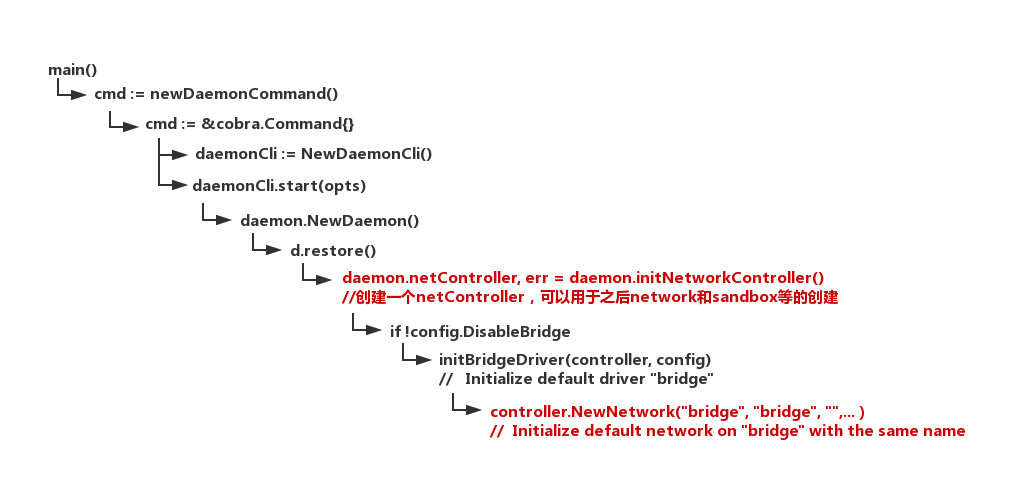
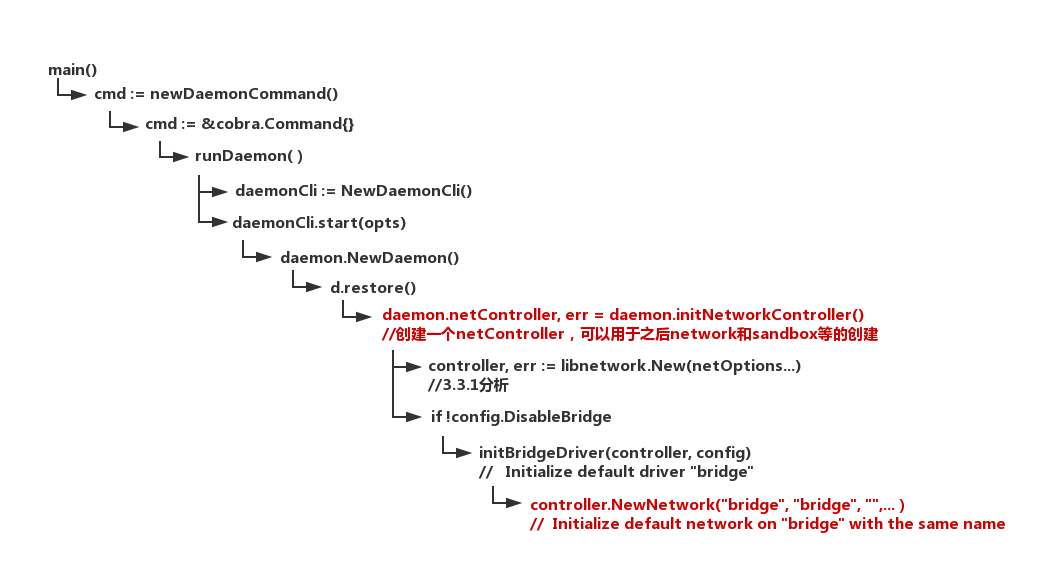
第六篇 10.19 晚 第一次

Changed region(s): [[0.1833, 0.4339, 0.9468, 0.9298], [0.0305, 0.093, 0.3665, 0.2789], [0.1527, 0.3099, 0.4581, 0.4029]]

diff --git a/_posts/2017-10-13-study-6-docker-6-libnetwork-excuting-flow.md b/_posts/2017-10-13-study-6-docker-6-libnetwork-excuting-flow.md
@@ -48,6 +48,131 @@ tags:
 
 ![](/img/study/study-6-docker-6-libnetwork-excuting-flow/libnetwork-excute-flow-daemon-init.png)
 
+### 2.3 代码分析
+
+这部分分析从`daemon.netController, err = daemon.initNetworkController(daemon.configStore, activeSandboxes)`开始，`daemon.initNetworkController()`的实现位于[moby/daemon/daemon_unix.go#L727#L774](https://github.com/moby/moby/blob/17.05.x/daemon/daemon_unix.go#L727#L774)，对于这部分的代码，分析如下：
+
+```go
+func (daemon *Daemon) initNetworkController(config *config.Config, activeSandboxes map[string]interface{}) (libnetwork.NetworkController, error) {
+	//network options,如OptionExecRoot、OptionDefaultDriver、OptionDefaultNetwork等
+	netOptions, err := daemon.networkOptions(config, daemon.PluginStore, activeSandboxes)
+	//根据netOptions创建net controller，2.3.1分析
+	controller, err := libnetwork.New(netOptions...)
+	// Initialize default network on "null"
+	if n, _ := controller.NetworkByName("none"); n == nil {
+		//如果没有就新建一个，NewNetwork()在2.3.2分析
+		if _, err := controller.NewNetwork("null", "none", "", libnetwork.NetworkOptionPersist(true)); err != nil {
+			return nil, fmt.Errorf("Error creating default \"null\" network: %v", err)
+		}
+	}
+	// Initialize default network on "host"
+	if n, _ := controller.NetworkByName("host"); n == nil {
+		if _, err := controller.NewNetwork("host", "host", "", libnetwork.NetworkOptionPersist(true)); err != nil {
+			return nil, fmt.Errorf("Error creating default \"host\" network: %v", err)
+		}
+	}
+	// Clear stale bridge network
+	if n, err := controller.NetworkByName("bridge"); err == nil {
+		if err = n.Delete(); err != nil {
+			return nil, fmt.Errorf("could not delete the default bridge network: %v", err)
+		}
+	}
+	if !config.DisableBridge {
+		// Initialize default driver "bridge"，在2.3.3分析
+		if err := initBridgeDriver(controller, config); err != nil {
+			return nil, err
+		}
+	} else {
+		removeDefaultBridgeInterface()
+	}
+	return controller, nil
+}
+```
+
+#### 2.3.1 libnetwork.New()
+
+`libnetwork.New(netOptions...)`的实现位于[moby/vendor/github.com/docker/libnetwork/controller.go#L179#L244](https://github.com/moby/moby/blob/17.05.x/vendor/github.com/docker/libnetwork/controller.go#L179#L244)，对于这部分的代码，分析如下：
+
+```go
+func New(cfgOptions ...config.Option) (NetworkController, error) {
+	c := &controller{
+		id:              stringid.GenerateRandomID(),
+		cfg:             config.ParseConfigOptions(cfgOptions...),
+		sandboxes:       sandboxTable{},
+		svcRecords:      make(map[string]svcInfo),
+		serviceBindings: make(map[serviceKey]*service),
+		agentInitDone:   make(chan struct{}),
+		networkLocker:   locker.New(),
+	}
+	c.initStores()
+	//DrvRegistry holds the registry of all network drivers and IPAM drivers that it knows about.
+	drvRegistry, err := drvregistry.New(c.getStore(datastore.LocalScope), c.getStore(datastore.GlobalScope), c.RegisterDriver, nil, c.cfg.PluginGetter)
+	/*the daemon are enabled for the experimental features，这是一个bool变量，true的话会增加额外的驱动初始化结构体，如ipvlan
+	这个函数调用的是./libnetwork/drivers_linux.go，返回的是bridge、host、macvlan、null、remote、overlay的初始化结构体initializer数组，这个结构体包含了驱动的初始化函数和驱动的名字,以bridge驱动为例：{bridge.Init, "bridge"}
+	在2.3.1.1中分析bridge的初始化过程
+	*/
+	for _, i := range getInitializers(c.cfg.Daemon.Experimental) {
+		var dcfg map[string]interface{}
+
+		// External plugins don't need config passed through daemon. They can
+		// bootstrap themselves
+		//如果不是remote驱动，则创建driver config
+		if i.ntype != "remote" {
+			dcfg = c.makeDriverConfig(i.ntype)
+		}
+		//将这些驱动的名字、初始化函数、config添加到drvRegistry中
+		if err := drvRegistry.AddDriver(i.ntype, i.fn, dcfg); err != nil {
+			return nil, err
+		}
+	}
+	//初始化IPAMDrivers
+	initIPAMDrivers(drvRegistry, nil, c.getStore(datastore.GlobalScope))
+	//赋值controller的drvRegistry
+	c.drvRegistry = drvRegistry
+
+	if c.cfg != nil && c.cfg.Cluster.Watcher != nil {
+		if err := c.initDiscovery(c.cfg.Cluster.Watcher); err != nil {
+			// Failing to initialize discovery is a bad situation to be in.
+			// But it cannot fail creating the Controller
+			logrus.Errorf("Failed to Initialize Discovery : %v", err)
+		}
+	}
+	//遍历controller所有network，如果network has special drivers, which do not need to perform any network plumbing,将添加到controller中
+	c.WalkNetworks(populateSpecial)
+	/*
+	Reserve pools first before doing cleanup. Otherwise the cleanups of endpoint/network and sandbox below will generate many unnecessary warnings
+	*/
+	c.reservePools()
+	// Cleanup resources
+	c.sandboxCleanup(c.cfg.ActiveSandboxes)
+	c.cleanupLocalEndpoints()
+	c.networkCleanup()
+	//
+	c.startExternalKeyListener()
+	return c, nil
+}
+```
+
+##### 2.3.1.1 bridge驱动的初始化
+
+##### 2.3.1.2 c.startExternalKeyListener()
+
+`c.startExternalKeyListener()`实现位于[moby/vendor/github.com/docker/libnetwork/sandbox_externalkey_unix.go#L105#L124](https://github.com/moby/moby/blob/17.05.x/vendor/github.com/docker/libnetwork/sandbox_externalkey_unix.go#L105#L124)，对于这部分的代码，分析如下：
+
+```go
+func (c *controller) startExternalKeyListener() error {
+	//udsBase = "/run/docker/libnetwork/"，这里创建"/run/docker/libnetwork/"目录，访问权限0600
+	os.MkdirAll(udsBase, 0600)
+}
+```
+
+
+#### 2.3.2 controller.NewNetwork()
+
+#### 2.3.3 initBridgeDriver()
+
+
+
 ## 3. libnetwork在docker创建时的工作
 
 ### 3.1 libnetwork的工作
